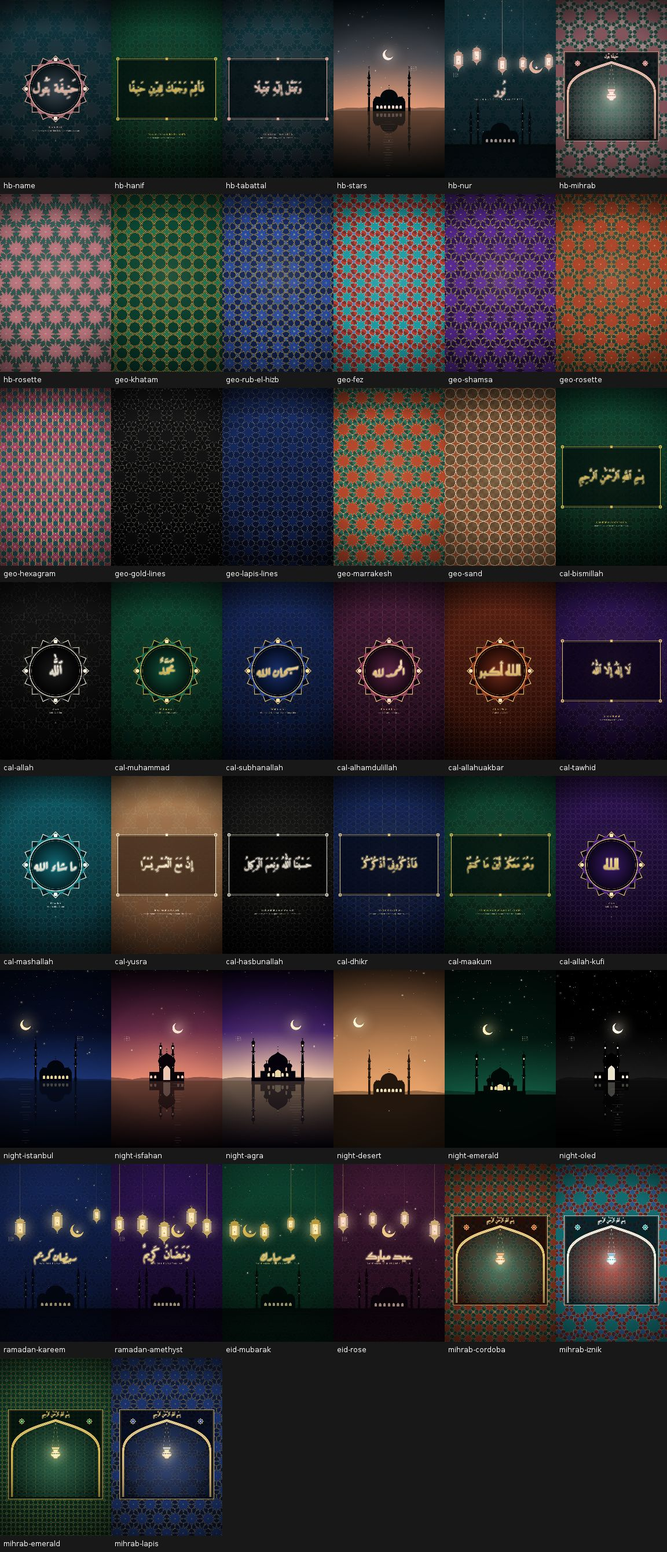
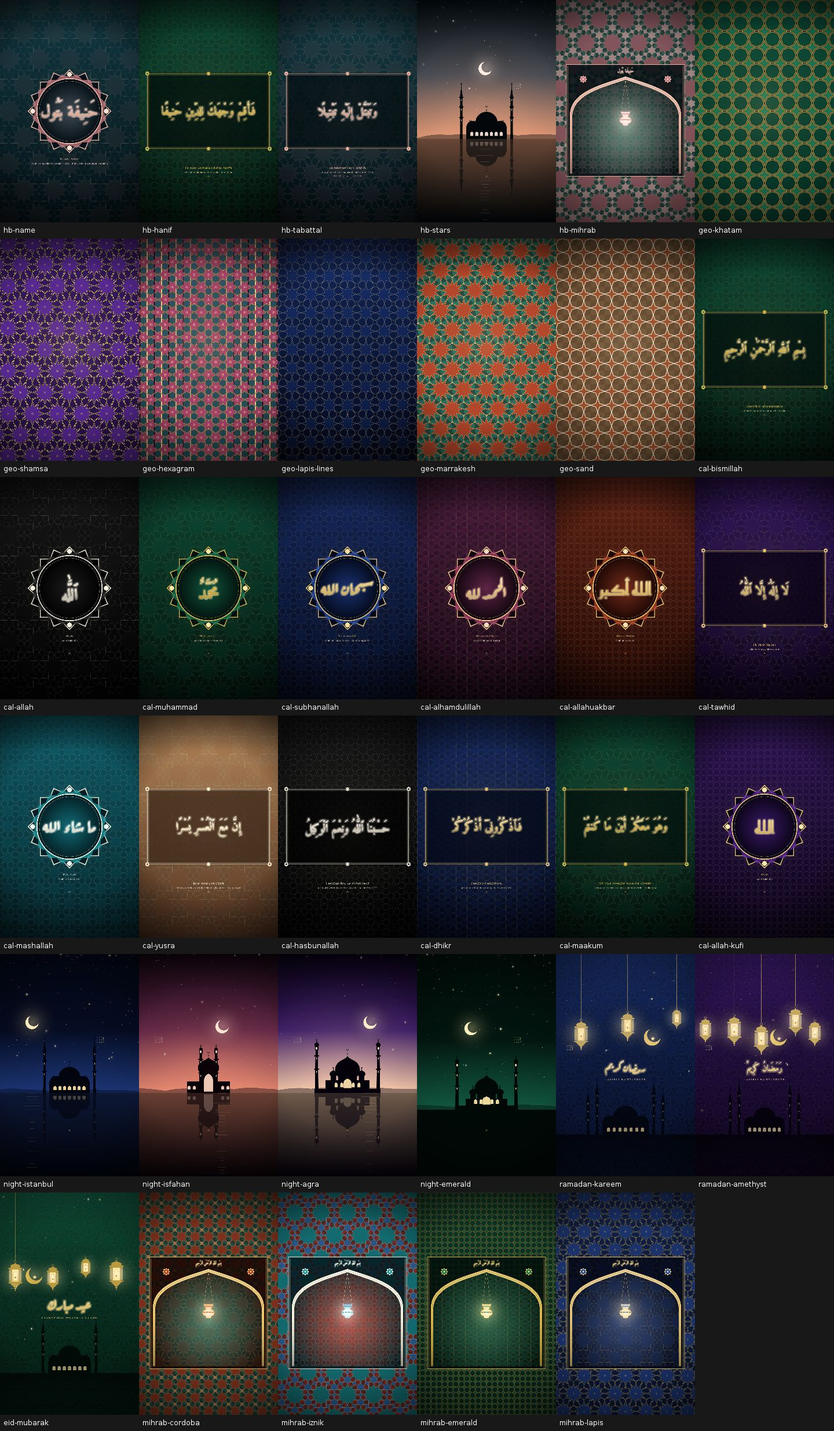
Keep Arabic calligraphy clear of the Turkish captions; v1.0.2
Text was centred on the font's line metrics, but Ruqaa and Naskh strokes
and vowel marks reach well beyond them, so the calligraphy ran into the
captions below (seen on device in the Ramazan and Bayram scenes).

TextItem can now centre on the actual ink bounds and cap the ink height.
The lantern greetings, medallion and frame calligraphy, and mihrab
inscription use it, and the lantern caption sits a fixed gap below the
greeting's guaranteed bottom edge. Both renderers implement it.

Claude-Session: https://claude.ai/code/session_01Buxkk429hNf3XBPaTUpxyi

diff --git a/app/src/main/java/com/noor/wallpapers/art/LanternArt.kt b/app/src/main/java/com/noor/wallpapers/art/LanternArt.kt
@@ -4,6 +4,9 @@ import kotlin.math.PI
 
 /** Ramadan and Eid: hanging fanous lanterns, a crescent and greeting calligraphy. */
 object LanternArt {
+    /** Half the tallest the greeting calligraphy may be, in design pixels. */
+    private const val CALLIGRAPHY_HALF_HEIGHT = 110.0
+
     class Params(val phrase: Phrase, val script: CalligraphyArt.Script = CalligraphyArt.Script.RUQAA)
 
     /**
@@ -86,12 +89,15 @@ object LanternArt {
                 ),
                 maxWidth = (ctx.safeW * 0.82).toFloat(),
                 glowColor = Colors.withAlpha(pal.glow, 0.6f), glowRadius = (20 * ctx.u).toFloat(),
+                maxHeight = (2 * CALLIGRAPHY_HALF_HEIGHT * ctx.u).toFloat(),
+                inkCentered = true,
             ),
         )
         b.text(
             TextItem(
                 p.phrase.meaning.uppercase(java.util.Locale.forLanguageTag("tr")), FontId.LATIN, (38 * ctx.u).toFloat(), ctx.cx.toFloat(),
-                (ty + 150 * ctx.u).toFloat(), SolidFill(Colors.lighten(pal.line, 0.3f)),
+                // The calligraphy's ink ends at ty + CALLIGRAPHY_HALF_HEIGHT; leave a clear gap below it.
+                (ty + (CALLIGRAPHY_HALF_HEIGHT + 55) * ctx.u).toFloat(), SolidFill(Colors.lighten(pal.line, 0.3f)),
                 alpha = 0.9f, letterSpacing = 0.25f,
             ),
         )

diff --git a/tools/preview/src/main/kotlin/Java2DRenderer.kt b/tools/preview/src/main/kotlin/Java2DRenderer.kt
@@ -23,6 +23,7 @@ import java.awt.MultipleGradientPaint
 import java.awt.RadialGradientPaint
 import java.awt.RenderingHints
 import java.awt.font.TextAttribute
+import java.awt.font.TextLayout
 import java.awt.geom.GeneralPath
 import java.awt.geom.Path2D
 import java.awt.geom.Point2D
@@ -90,9 +91,18 @@ class Java2DRenderer(fontDir: File) {
             font = font.deriveFont(t.size * t.maxWidth / width)
             fm = g.getFontMetrics(font)
         }
+        var y = t.cy + (fm.ascent - fm.descent) / 2f
+        if (t.inkCentered) {
+            var ink = TextLayout(t.text, font, g.fontRenderContext).bounds
+            if (ink.height > t.maxHeight) {
+                font = font.deriveFont(font.size2D * t.maxHeight / ink.height.toFloat())
+                fm = g.getFontMetrics(font)
+                ink = TextLayout(t.text, font, g.fontRenderContext).bounds
+            }
+            y = (t.cy - (ink.minY + ink.maxY) / 2).toFloat()
+        }
         g.font = font
         val x = t.cx - fm.stringWidth(t.text) / 2f
-        val y = t.cy + (fm.ascent - fm.descent) / 2f
         if (t.glowRadius > 0f && t.glowColor != 0) {
             // Java2D has no blur; fake the glow with faint offset copies.
             g.color = color(Colors.withAlpha(t.glowColor, 0.08f))

diff --git a/app/src/main/java/com/noor/wallpapers/art/Scene.kt b/app/src/main/java/com/noor/wallpapers/art/Scene.kt
@@ -112,8 +112,14 @@ class StrokeItem(
 ) : Item
 
 /**
- * A single line of text centred horizontally on [cx], vertically centred on [cy]
- * using the font's ascent/descent. Renderers shrink [size] until the text fits [maxWidth].
+ * A single line of text centred horizontally on [cx]. Renderers shrink [size]
+ * until the text fits [maxWidth].
+ *
+ * Vertically, plain text is centred on [cy] using the font's ascent/descent.
+ * With [inkCentered], the glyphs actually drawn (including Arabic vowel marks and
+ * the long descending strokes of Ruqaa and Naskh) are centred on [cy] and shrunk
+ * to at most [maxHeight] tall, so the text is guaranteed to stay inside
+ * cy ± maxHeight / 2 and nothing placed outside that band can collide with it.
  */
 class TextItem(
     val text: String,
@@ -127,6 +133,8 @@ class TextItem(
     val glowColor: Int = 0,
     val glowRadius: Float = 0f,
     val letterSpacing: Float = 0f,
+    val maxHeight: Float = Float.MAX_VALUE,
+    val inkCentered: Boolean = false,
 ) : Item
 
 class GroupItem(val items: List<Item>, val clip: Path? = null, val alpha: Float = 1f) : Item

diff --git a/app/src/main/java/com/noor/wallpapers/art/CalligraphyArt.kt b/app/src/main/java/com/noor/wallpapers/art/CalligraphyArt.kt
@@ -99,13 +99,16 @@ object CalligraphyArt {
         val size = if (p.medallion) 250 * ctx.u else 170 * ctx.u
         b.text(
             TextItem(
-                text, font, size.toFloat(), cx.toFloat(), (cy + if (p.script == Script.NASKH) 0.0 else -10 * ctx.u).toFloat(),
+                text, font, size.toFloat(), cx.toFloat(), cy.toFloat(),
                 LinearFill(
                     0f, (cy - size / 2).toFloat(), 0f, (cy + size / 2).toFloat(),
                     intArrayOf(Colors.lighten(pal.line, 0.35f), pal.line, Colors.darken(pal.line, 0.15f)),
                 ),
                 maxWidth = maxWidth.toFloat(),
                 glowColor = Colors.withAlpha(pal.glow, 0.55f), glowRadius = (18 * ctx.u).toFloat(),
+                // Stay inside the medallion's disc / the frame, marks and descenders included.
+                maxHeight = (if (p.medallion) r * 0.95 else hh * 1.3).toFloat(),
+                inkCentered = true,
             ),
         )
 

diff --git a/app/src/main/java/com/noor/wallpapers/wallpaper/AndroidRenderer.kt b/app/src/main/java/com/noor/wallpapers/wallpaper/AndroidRenderer.kt
@@ -77,8 +77,18 @@ class AndroidRenderer(context: Context) {
         paint.textAlign = Paint.Align.CENTER
         val width = paint.measureText(t.text)
         if (width > t.maxWidth) paint.textSize = t.size * t.maxWidth / width
-        val fm = paint.fontMetrics
-        val baseline = t.cy - (fm.ascent + fm.descent) / 2f
+        val baseline = if (t.inkCentered) {
+            val ink = android.graphics.Rect()
+            paint.getTextBounds(t.text, 0, t.text.length, ink)
+            if (ink.height() > t.maxHeight) {
+                paint.textSize *= t.maxHeight / ink.height()
+                paint.getTextBounds(t.text, 0, t.text.length, ink)
+            }
+            t.cy - (ink.top + ink.bottom) / 2f
+        } else {
+            val fm = paint.fontMetrics
+            t.cy - (fm.ascent + fm.descent) / 2f
+        }
 
         if (t.glowRadius > 0f && t.glowColor != 0) {
             val glow = Paint(paint)

diff --git a/app/src/main/java/com/noor/wallpapers/art/MihrabArt.kt b/app/src/main/java/com/noor/wallpapers/art/MihrabArt.kt
@@ -38,6 +38,9 @@ object MihrabArt {
                 p.inscription.arabic, FontId.NASKH_BOLD, (72 * u).toFloat(), cx.toFloat(),
                 (alfizTop + 90 * u).toFloat(), SolidFill(pal.line), maxWidth = (outerW * 0.95).toFloat(),
                 glowColor = Colors.withAlpha(pal.glow, 0.4f), glowRadius = (8 * u).toFloat(),
+                // Keep clear of the arch's apex below the band.
+                maxHeight = (110 * u).toFloat(),
+                inkCentered = true,
             ),
         )
 

diff --git a/README.md b/README.md
@@ -78,7 +78,7 @@ On the detail screen you can:
 ## Install
 
 **Download the APK from [Releases](https://github.com/genclinux/burnthoseclaudelimits/releases/latest)**
-(`HBSnoor-v1.0.0.apk`), open it on the tablet, and allow *Install unknown apps*
+(`HBSnoor-v1.0.x.apk`), open it on the tablet, and allow *Install unknown apps*
 when asked. Every release is signed with the same key, so newer versions
 install as updates.
 
